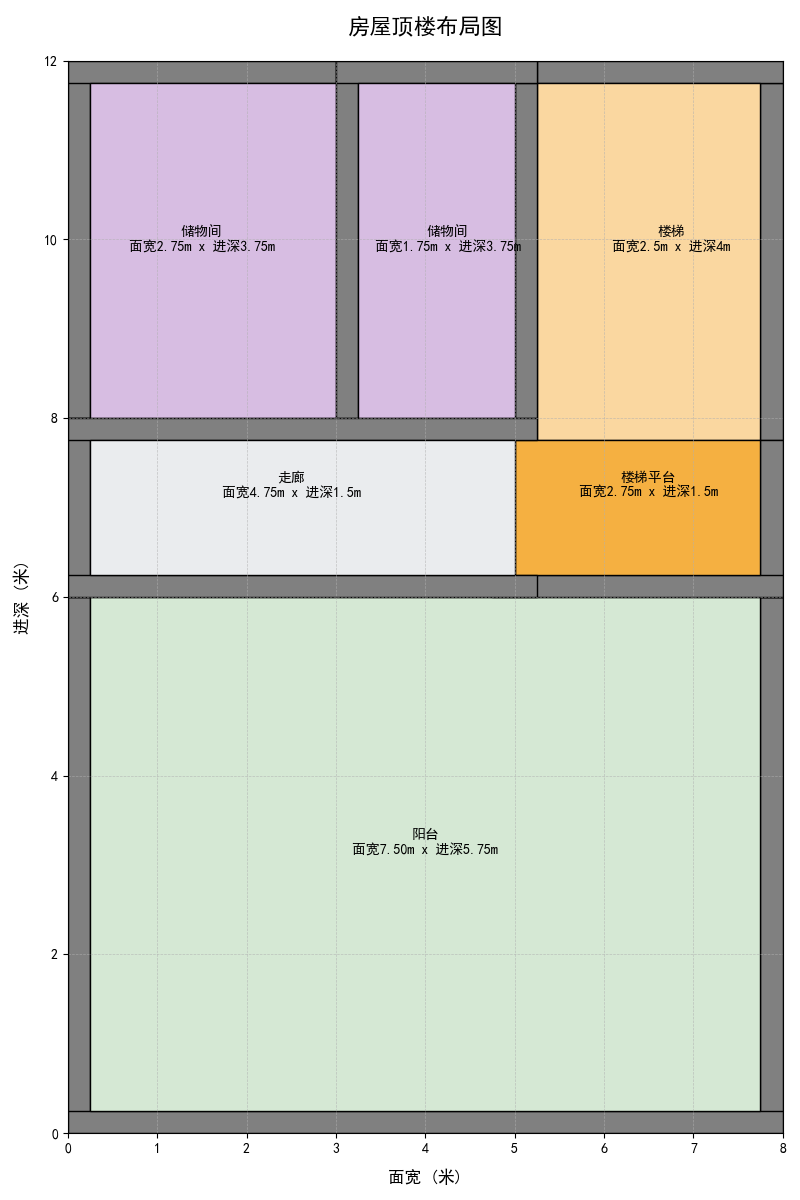
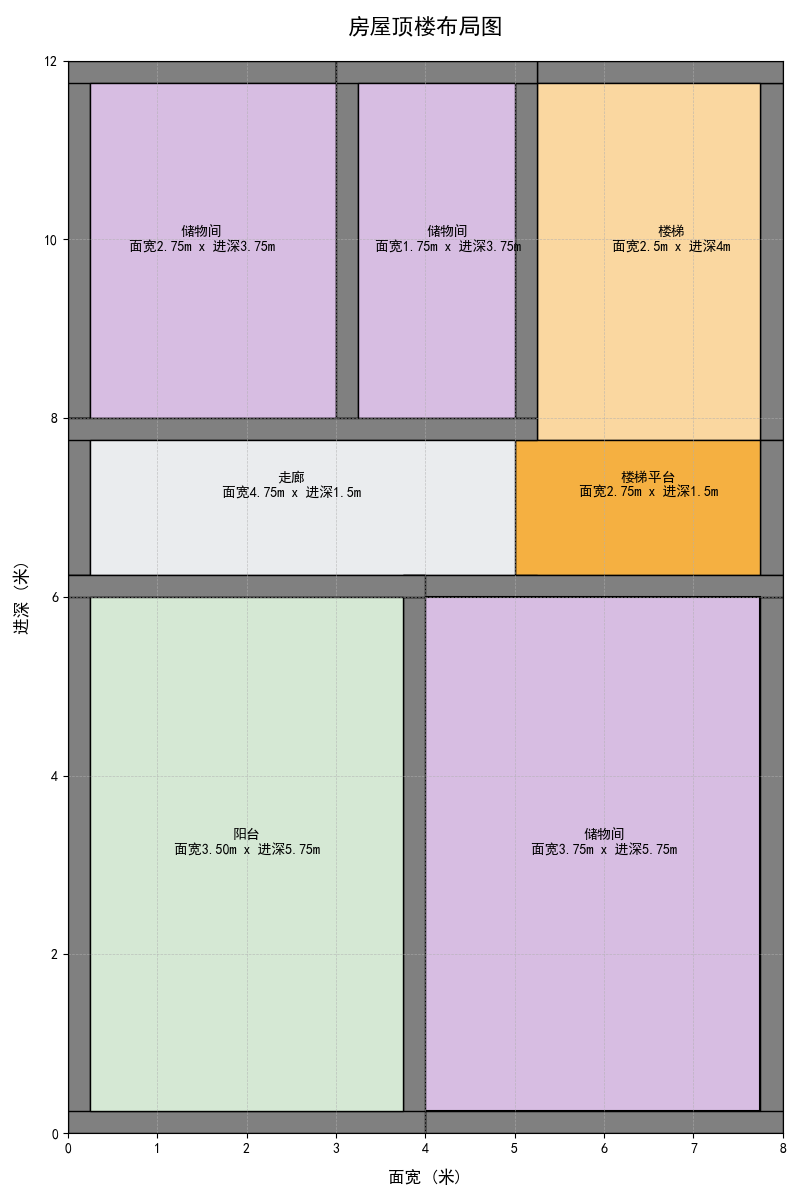
perf(floor_3_5nd.py): update

diff --git a/floor_3_5nd.py b/floor_3_5nd.py
@@ -99,15 +99,6 @@ ax.add_patch(
 ax.text(4.25, 10, f"储物间\n面宽{2.5 - 3 * wall_thickness:.2f}m x 进深{4 - wall_thickness:.2f}m",
         ha='center', va='center', fontsize=10)
 
-# 阳台：位于最前面的区域
-draw_wall(0, 0, 8, 6.5 - wall_thickness)  # 排除底部墙壁（大门区域）
-ax.add_patch(
-    patches.Rectangle((wall_thickness, wall_thickness), 8 - 2 * wall_thickness, 6.5 - wall_thickness * 3,
-                      facecolor=colors['阳台'], edgecolor='black', label='阳台'))
-# 文字水平居中
-ax.text(4, 3.25, f"阳台\n面宽{8 - 2 * wall_thickness:.2f}m x 进深{6.5 - wall_thickness * 3:.2f}m",
-        ha='center', va='center', fontsize=10)
-
 # 楼梯平台：宽2.75米，长1.5米
 draw_wall(5 - wall_thickness, 6.5 - wall_thickness * 2, 3 + wall_thickness, 1.5 + wall_thickness * 2,
           exclude=['top', 'left'], adjacent=['top', 'left'])
@@ -124,6 +115,23 @@ ax.add_patch(patches.Rectangle((wall_thickness, 6.5 - wall_thickness), 5 - wall_
 # 文字水平居中
 ax.text(2.5, 7.25, f"走廊\n面宽{5 - wall_thickness :.2f}m x 进深1.5m",
         ha='center', va='center', fontsize=10, color='black')
+
+# 储物间（右下角）
+draw_wall(4 - wall_thickness, 0, 4 + wall_thickness, 6 + wall_thickness)  # 排除顶部墙壁
+ax.add_patch(
+    patches.Rectangle((4, wall_thickness), 4 - wall_thickness, 6 - wall_thickness,
+                      facecolor=colors['储物间'], edgecolor='black', linewidth=1.5))
+ax.text(6, 3.25, f"储物间\n面宽{4 - wall_thickness:.2f}m x 进深{6 - wall_thickness:.2f}m",
+        ha='center', va='center', fontsize=10, color='black', fontweight='bold')
+
+# 阳台：位于最前面的区域
+draw_wall(0, 0, 4, 6.5 - wall_thickness)  # 排除底部墙壁（大门区域）
+ax.add_patch(
+    patches.Rectangle((wall_thickness, wall_thickness), 4 - 2 * wall_thickness, 6.5 - wall_thickness * 3,
+                      facecolor=colors['阳台'], edgecolor='black', label='阳台'))
+# 文字水平居中
+ax.text(2, 3.25, f"阳台\n面宽{4 - 2 * wall_thickness:.2f}m x 进深{6.5 - wall_thickness * 3:.2f}m",
+        ha='center', va='center', fontsize=10)
 
 # 显示坐标轴标签
 plt.xlabel("面宽 (米)", fontsize=12, labelpad=10)
